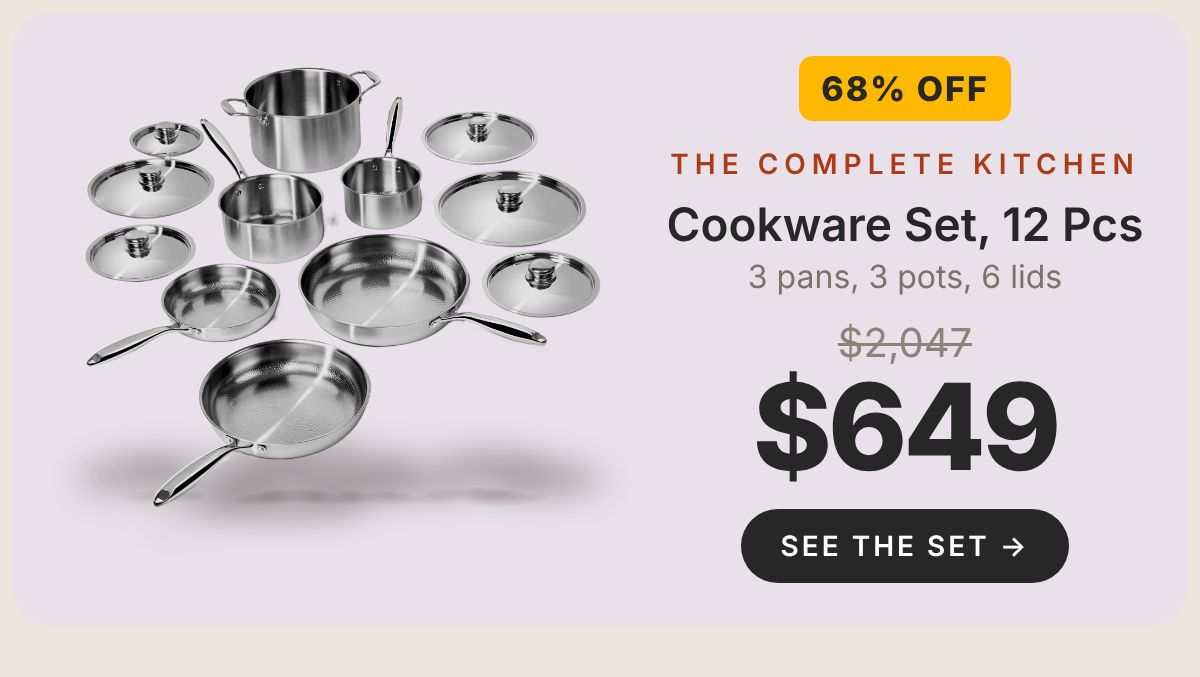
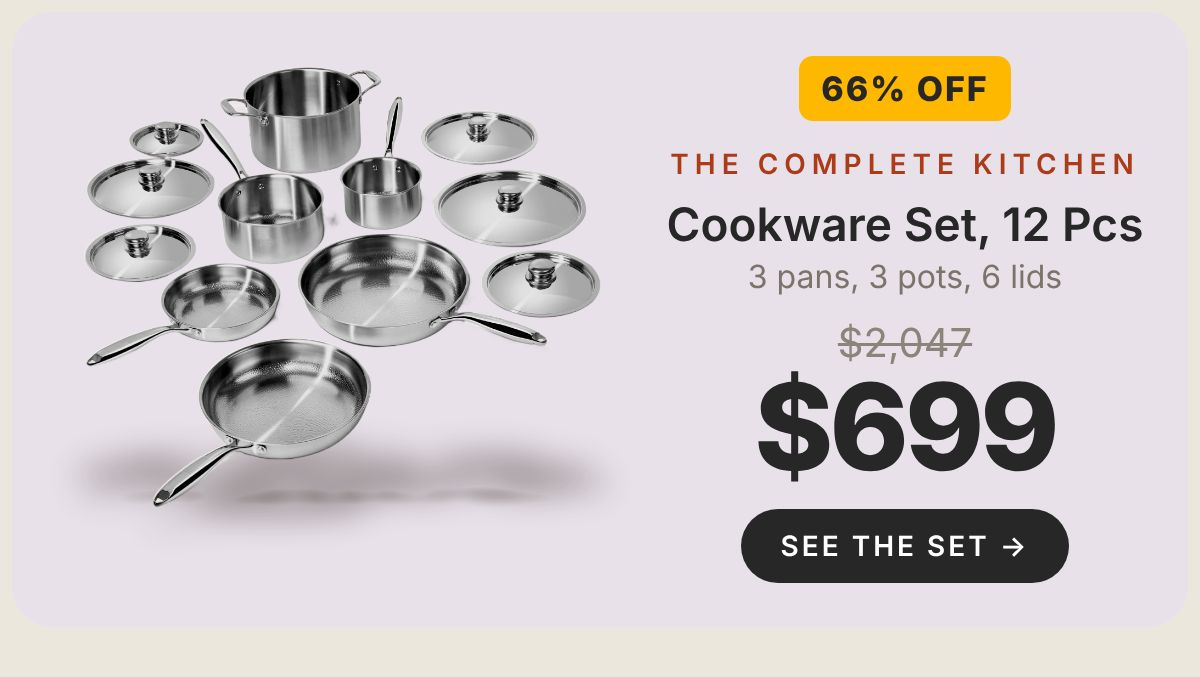
BF-W1 image B: 12-piece set at $699
Claude-Session: https://claude.ai/code/session_01HjCaDE95ohEXY6DPZTSH67

Changed region(s): [[0.6475, 0.5583, 0.8633, 0.7134], [0.7092, 0.1241, 0.74, 0.1551], [0.6475, 0.5894, 0.6783, 0.6204]]

diff --git a/klaviyo/templates/v3/bfcm/bf-w1-image-b/bf-w1-image-b-preview.html b/klaviyo/templates/v3/bfcm/bf-w1-image-b/bf-w1-image-b-preview.html
@@ -52,7 +52,7 @@
 <tr><td align="center" bgcolor="#ECE7DD" class="pad" style="background-color:#ECE7DD;padding:0 40px 30px 40px;text-align:center;"><table border="0" cellpadding="0" cellspacing="0" role="presentation" width="400" style="width:100%;max-width:400px;margin:0 auto;"><tr><td align="center" bgcolor="#272727" style="background-color:#272727;border-radius:40px;"><a href="https://siraatskitchen.com/products/2-pans-and-2-lids?utm_source=klaviyo&amp;utm_medium=email&amp;utm_campaign=bfcm-welcome-image-b&amp;utm_content=duo-cta" style="display:block;padding:19px 16px;font-family:Inter,Arial,Helvetica,sans-serif;font-size:15px;line-height:18px;font-weight:600;letter-spacing:1.2px;color:#FFFFFF;text-decoration:none;text-transform:uppercase;">Get 2 pans + 2 lids for $249 &rarr;</a></td></tr></table><div style="font-family:Inter,Arial,Helvetica,sans-serif;font-size:12px;line-height:18px;color:#727272;padding-top:10px;">Free shipping. 30-day returns. 100,000+ happy customers.</div></td></tr>
 <tr><td style="padding:0;font-size:0;line-height:0;"><a href="https://siraatskitchen.com/collections/cookware?utm_source=klaviyo&amp;utm_medium=email&amp;utm_campaign=bfcm-welcome-image-b&amp;utm_content=h-more" style="display:block;border:0;"><img src="/home/user/siraat-email-agent/klaviyo/templates/v3/bfcm/bf-w1-image-b/sections/bf-h-more.jpg" width="600" alt="The rest of the sale: pick your pan or your whole kitchen." style="display:block;width:100%;max-width:600px;height:auto;border:0;"></a></td></tr>
 <tr><td bgcolor="#ECE7DD" style="background-color:#ECE7DD;padding:0;"><table role="presentation" width="100%" cellpadding="0" cellspacing="0" border="0"><tr><td width="50%" valign="top" style="width:50%;padding:0;font-size:0;line-height:0;"><a href="https://siraatskitchen.com/products/original-siraat-100-pure-titanium-pan-with-hammered-pattern?utm_source=klaviyo&amp;utm_medium=email&amp;utm_campaign=bfcm-welcome-image-b&amp;utm_content=card-standard" style="display:block;"><img src="/home/user/siraat-email-agent/klaviyo/templates/v3/bfcm/bf-w1-image-b/sections/card-standard.jpg" width="300" alt="Pan Pro Standard, 11 inch, 28 cm. 69% off: $149, was $480." style="display:block;width:100%;max-width:300px;height:auto;border:0;"></a></td><td width="50%" valign="top" style="width:50%;padding:0;font-size:0;line-height:0;"><a href="https://siraatskitchen.com/products/titanium-hammered-pan-set-with-lids-6-pcs?utm_source=klaviyo&amp;utm_medium=email&amp;utm_campaign=bfcm-welcome-image-b&amp;utm_content=card-set6" style="display:block;"><img src="/home/user/siraat-email-agent/klaviyo/templates/v3/bfcm/bf-w1-image-b/sections/card-set6.jpg" width="300" alt="Pan Set, 6 pieces: 3 pans and 3 fitted lids. 70% off: $299, was $997." style="display:block;width:100%;max-width:300px;height:auto;border:0;"></a></td></tr></table></td></tr>
-<tr><td style="padding:0;font-size:0;line-height:0;"><a href="https://siraatskitchen.com/products/titanium-hammered-cookware-set?utm_source=klaviyo&amp;utm_medium=email&amp;utm_campaign=bfcm-welcome-image-b&amp;utm_content=card-set12" style="display:block;border:0;"><img src="/home/user/siraat-email-agent/klaviyo/templates/v3/bfcm/bf-w1-image-b/sections/card-set12-wide.jpg" width="600" alt="Cookware Set, 12 pieces: 3 pans, 3 pots and 6 lids, the complete kitchen. 68% off: $649, was $2,047." style="display:block;width:100%;max-width:600px;height:auto;border:0;"></a></td></tr>
+<tr><td style="padding:0;font-size:0;line-height:0;"><a href="https://siraatskitchen.com/products/titanium-hammered-cookware-set?utm_source=klaviyo&amp;utm_medium=email&amp;utm_campaign=bfcm-welcome-image-b&amp;utm_content=card-set12" style="display:block;border:0;"><img src="/home/user/siraat-email-agent/klaviyo/templates/v3/bfcm/bf-w1-image-b/sections/card-set12-wide.jpg" width="600" alt="Cookware Set, 12 pieces: 3 pans, 3 pots and 6 lids, the complete kitchen. 66% off: $699, was $2,047." style="display:block;width:100%;max-width:600px;height:auto;border:0;"></a></td></tr>
 <tr><td style="padding:0;font-size:0;line-height:0;"><a href="https://siraatskitchen.com/collections/cookware?utm_source=klaviyo&amp;utm_medium=email&amp;utm_campaign=bfcm-welcome-image-b&amp;utm_content=edge" style="display:block;border:0;"><img src="/home/user/siraat-email-agent/klaviyo/templates/v3/welcome/v6d-envelope-rich/sections/torn-ECE7DD-282828.jpg" width="600" alt="" style="display:block;width:100%;max-width:600px;height:auto;border:0;"></a></td></tr>
 <tr><td style="padding:0;font-size:0;line-height:0;"><a href="https://siraatskitchen.com/collections/cookware?utm_source=klaviyo&amp;utm_medium=email&amp;utm_campaign=bfcm-welcome-image-b&amp;utm_content=reasons" style="display:block;border:0;"><img src="/home/user/siraat-email-agent/klaviyo/templates/v3/bfcm/bf-w1-image-b/sections/bf-reasons.jpg" width="600" alt="Why now, five honest reasons, no countdown. 1: Black Friday prices, up to 70% off pans and sets. 2: No code needed, the sale price is already on the product page. 3: 5 free gifts in the box with every order. 4: 30-day returns, unused within 30 days of delivery, full refund. 5: 75-year warranty against defects; a pure titanium cooking surface with no coatings, so nothing to wear off." style="display:block;width:100%;max-width:600px;height:auto;border:0;"></a></td></tr>
 <tr><td style="padding:0;font-size:0;line-height:0;"><a href="https://siraatskitchen.com/collections/cookware?utm_source=klaviyo&amp;utm_medium=email&amp;utm_campaign=bfcm-welcome-image-b&amp;utm_content=edge" style="display:block;border:0;"><img src="/home/user/siraat-email-agent/klaviyo/templates/v3/welcome/v6d-envelope-rich/sections/torn-282828-ECE7DD.jpg" width="600" alt="" style="display:block;width:100%;max-width:600px;height:auto;border:0;"></a></td></tr>

diff --git a/klaviyo/templates/v3/bfcm/bf-w1-image-b/bf-w1-image-b.html b/klaviyo/templates/v3/bfcm/bf-w1-image-b/bf-w1-image-b.html
@@ -52,7 +52,7 @@
 <tr><td align="center" bgcolor="#ECE7DD" class="pad" style="background-color:#ECE7DD;padding:0 40px 30px 40px;text-align:center;"><table border="0" cellpadding="0" cellspacing="0" role="presentation" width="400" style="width:100%;max-width:400px;margin:0 auto;"><tr><td align="center" bgcolor="#272727" style="background-color:#272727;border-radius:40px;"><a href="https://siraatskitchen.com/products/2-pans-and-2-lids?utm_source=klaviyo&amp;utm_medium=email&amp;utm_campaign=bfcm-welcome-image-b&amp;utm_content=duo-cta" style="display:block;padding:19px 16px;font-family:Inter,Arial,Helvetica,sans-serif;font-size:15px;line-height:18px;font-weight:600;letter-spacing:1.2px;color:#FFFFFF;text-decoration:none;text-transform:uppercase;">Get 2 pans + 2 lids for $249 &rarr;</a></td></tr></table><div style="font-family:Inter,Arial,Helvetica,sans-serif;font-size:12px;line-height:18px;color:#727272;padding-top:10px;">Free shipping. 30-day returns. 100,000+ happy customers.</div></td></tr>
 <tr><td style="padding:0;font-size:0;line-height:0;"><a href="https://siraatskitchen.com/collections/cookware?utm_source=klaviyo&amp;utm_medium=email&amp;utm_campaign=bfcm-welcome-image-b&amp;utm_content=h-more" style="display:block;border:0;"><img src="https://cdn.klaviyomail.com/company/TdtTzz/images/fd54f5f5-0882-48c8-af8b-ca6cde923fd2.jpeg" width="600" alt="The rest of the sale: pick your pan or your whole kitchen." style="display:block;width:100%;max-width:600px;height:auto;border:0;"></a></td></tr>
 <tr><td bgcolor="#ECE7DD" style="background-color:#ECE7DD;padding:0;"><table role="presentation" width="100%" cellpadding="0" cellspacing="0" border="0"><tr><td width="50%" valign="top" style="width:50%;padding:0;font-size:0;line-height:0;"><a href="https://siraatskitchen.com/products/original-siraat-100-pure-titanium-pan-with-hammered-pattern?utm_source=klaviyo&amp;utm_medium=email&amp;utm_campaign=bfcm-welcome-image-b&amp;utm_content=card-standard" style="display:block;"><img src="https://cdn.klaviyomail.com/company/TdtTzz/images/3479b59d-69fd-42f9-9a6c-3d76f87a9b52.jpeg" width="300" alt="Pan Pro Standard, 11 inch, 28 cm. 69% off: $149, was $480." style="display:block;width:100%;max-width:300px;height:auto;border:0;"></a></td><td width="50%" valign="top" style="width:50%;padding:0;font-size:0;line-height:0;"><a href="https://siraatskitchen.com/products/titanium-hammered-pan-set-with-lids-6-pcs?utm_source=klaviyo&amp;utm_medium=email&amp;utm_campaign=bfcm-welcome-image-b&amp;utm_content=card-set6" style="display:block;"><img src="https://cdn.klaviyomail.com/company/TdtTzz/images/32020e81-474b-47bd-8d10-702562965735.jpeg" width="300" alt="Pan Set, 6 pieces: 3 pans and 3 fitted lids. 70% off: $299, was $997." style="display:block;width:100%;max-width:300px;height:auto;border:0;"></a></td></tr></table></td></tr>
-<tr><td style="padding:0;font-size:0;line-height:0;"><a href="https://siraatskitchen.com/products/titanium-hammered-cookware-set?utm_source=klaviyo&amp;utm_medium=email&amp;utm_campaign=bfcm-welcome-image-b&amp;utm_content=card-set12" style="display:block;border:0;"><img src="https://cdn.klaviyomail.com/company/TdtTzz/images/3491f70f-6fb5-47f9-ad37-81e86305bbe5.jpeg" width="600" alt="Cookware Set, 12 pieces: 3 pans, 3 pots and 6 lids, the complete kitchen. 68% off: $649, was $2,047." style="display:block;width:100%;max-width:600px;height:auto;border:0;"></a></td></tr>
+<tr><td style="padding:0;font-size:0;line-height:0;"><a href="https://siraatskitchen.com/products/titanium-hammered-cookware-set?utm_source=klaviyo&amp;utm_medium=email&amp;utm_campaign=bfcm-welcome-image-b&amp;utm_content=card-set12" style="display:block;border:0;"><img src="https://cdn.klaviyomail.com/company/TdtTzz/images/0afda6eb-512d-428b-b570-6f387fea7f64.jpeg" width="600" alt="Cookware Set, 12 pieces: 3 pans, 3 pots and 6 lids, the complete kitchen. 66% off: $699, was $2,047." style="display:block;width:100%;max-width:600px;height:auto;border:0;"></a></td></tr>
 <tr><td style="padding:0;font-size:0;line-height:0;"><a href="https://siraatskitchen.com/collections/cookware?utm_source=klaviyo&amp;utm_medium=email&amp;utm_campaign=bfcm-welcome-image-b&amp;utm_content=edge" style="display:block;border:0;"><img src="https://cdn.klaviyomail.com/company/TdtTzz/images/7b52008a-7e4b-4dcb-a7b4-0e907b8889ef.jpeg" width="600" alt="" style="display:block;width:100%;max-width:600px;height:auto;border:0;"></a></td></tr>
 <tr><td style="padding:0;font-size:0;line-height:0;"><a href="https://siraatskitchen.com/collections/cookware?utm_source=klaviyo&amp;utm_medium=email&amp;utm_campaign=bfcm-welcome-image-b&amp;utm_content=reasons" style="display:block;border:0;"><img src="https://cdn.klaviyomail.com/company/TdtTzz/images/ce856f71-1804-4168-9b6d-9ee187ad779d.jpeg" width="600" alt="Why now, five honest reasons, no countdown. 1: Black Friday prices, up to 70% off pans and sets. 2: No code needed, the sale price is already on the product page. 3: 5 free gifts in the box with every order. 4: 30-day returns, unused within 30 days of delivery, full refund. 5: 75-year warranty against defects; a pure titanium cooking surface with no coatings, so nothing to wear off." style="display:block;width:100%;max-width:600px;height:auto;border:0;"></a></td></tr>
 <tr><td style="padding:0;font-size:0;line-height:0;"><a href="https://siraatskitchen.com/collections/cookware?utm_source=klaviyo&amp;utm_medium=email&amp;utm_campaign=bfcm-welcome-image-b&amp;utm_content=edge" style="display:block;border:0;"><img src="https://cdn.klaviyomail.com/company/TdtTzz/images/4a1f8d49-65b5-4359-91ea-a0891a74508c.jpeg" width="600" alt="" style="display:block;width:100%;max-width:600px;height:auto;border:0;"></a></td></tr>

diff --git a/klaviyo/templates/v3/bfcm/bf-w1-image-b/sections/src/card-set12-wide.html b/klaviyo/templates/v3/bfcm/bf-w1-image-b/sections/src/card-set12-wide.html
@@ -9,4 +9,4 @@
 .num{font-weight:800;letter-spacing:-2px}
 .tag{display:inline-block;background:#FFB800;color:#272727;font-weight:800;letter-spacing:2px;border-radius:14px;text-transform:uppercase}
 .was{text-decoration:line-through;text-decoration-thickness:3px;color:#8A847A}
-</style></head><body><div id="s" style="background:#ECE7DD;padding:12px 12px 50px"><div style="position:relative;background:#E8E1EA;border-radius:40px;display:flex;align-items:center;padding:44px 40px 44px 30px;gap:20px"><div style="flex:1.15;text-align:center"><img src="file:///home/user/siraat-email-agent/klaviyo/templates/v3/bfcm/bf-w1-image-b/gen/sh/cut-set12_-3.png" style="width:600px;"></div><div style="flex:1;text-align:center"><div class="tag" style="font-size:34px;padding:12px 22px;margin-bottom:26px">68% OFF</div><div class="eb" style="color:#AC3B19;font-size:28px">The complete kitchen</div><div style="font-weight:600;font-size:46px;line-height:54px;color:#272727;margin-top:16px">Cookware Set, 12 Pcs</div><div style="font-size:32px;color:#7A746B;margin-top:6px">3 pans, 3 pots, 6 lids</div><div class="was" style="font-size:40px;margin-top:22px">$2,047</div><div class="num" style="font-size:120px;line-height:120px;color:#272727;letter-spacing:-4px">$649</div><div class="btn" style="margin-top:22px;background:#272727;color:#FFFFFF;font-size:28px;padding:20px 40px">See the set &rarr;</div></div></div></div></body></html>
+</style></head><body><div id="s" style="background:#ECE7DD;padding:12px 12px 50px"><div style="position:relative;background:#E8E1EA;border-radius:40px;display:flex;align-items:center;padding:44px 40px 44px 30px;gap:20px"><div style="flex:1.15;text-align:center"><img src="file:///home/user/siraat-email-agent/klaviyo/templates/v3/bfcm/bf-w1-image-b/gen/sh/cut-set12_-3.png" style="width:600px;"></div><div style="flex:1;text-align:center"><div class="tag" style="font-size:34px;padding:12px 22px;margin-bottom:26px">66% OFF</div><div class="eb" style="color:#AC3B19;font-size:28px">The complete kitchen</div><div style="font-weight:600;font-size:46px;line-height:54px;color:#272727;margin-top:16px">Cookware Set, 12 Pcs</div><div style="font-size:32px;color:#7A746B;margin-top:6px">3 pans, 3 pots, 6 lids</div><div class="was" style="font-size:40px;margin-top:22px">$2,047</div><div class="num" style="font-size:120px;line-height:120px;color:#272727;letter-spacing:-4px">$699</div><div class="btn" style="margin-top:22px;background:#272727;color:#FFFFFF;font-size:28px;padding:20px 40px">See the set &rarr;</div></div></div></div></body></html>

diff --git a/klaviyo/templates/v3/bfcm/bf-w1-image-b/_tools/build.py b/klaviyo/templates/v3/bfcm/bf-w1-image-b/_tools/build.py
@@ -88,7 +88,7 @@ e.cta(SAND, 'Get 2 pans + 2 lids for $249', UP('duo-cta', 'duo'), sub=FR, pad='0
 e.img('bf-h-more.jpg', 'The rest of the sale: pick your pan or your whole kitchen.', U('h-more'))
 e.pair([('card-standard.jpg', 'Pan Pro Standard, 11 inch, 28 cm. 69% off: $149, was $480.', UP('card-standard', 'standard')),
         ('card-set6.jpg', 'Pan Set, 6 pieces: 3 pans and 3 fitted lids. 70% off: $299, was $997.', UP('card-set6', 'set6'))])
-e.img('card-set12-wide.jpg', 'Cookware Set, 12 pieces: 3 pans, 3 pots and 6 lids, the complete kitchen. 68% off: $649, was $2,047.', UP('card-set12', 'set12'))
+e.img('card-set12-wide.jpg', 'Cookware Set, 12 pieces: 3 pans, 3 pots and 6 lids, the complete kitchen. 66% off: $699, was $2,047.', UP('card-set12', 'set12'))
 e.torn(SAND, DARK)
 e.img('bf-reasons.jpg', 'Why now, five honest reasons, no countdown. 1: Black Friday prices, up to 70% off pans and sets. 2: No code needed, the sale price is already on the product page. 3: 5 free gifts in the box with every order. 4: 30-day returns, unused within 30 days of delivery, full refund. 5: 75-year warranty against defects; a pure titanium cooking surface with no coatings, so nothing to wear off.', U('reasons'))
 e.torn(DARK, SAND)

diff --git a/klaviyo/templates/v3/bfcm/bf-w1-image-b/_tools/sections.py b/klaviyo/templates/v3/bfcm/bf-w1-image-b/_tools/sections.py
@@ -69,7 +69,7 @@ sec('bf-h-more', f'background:{SAND};padding:56px 70px 20px', head('The rest of 
 # ---------- productkaarten (zelfde stramien als v6d card(), maar BF-prijs zonder code)
 PR = {'standard': ('Pan Pro Standard', '11&Prime; &middot; 28 cm', 480, 149, '#F3E3D3', 'cut-standard.png', -12),
       'set6': ('Pan Set, 6 Pcs', '3 pans + 3 fitted lids', 997, 299, '#E4E7DF', 'cut-set6.png', -4),
-      'set12': ('Cookware Set, 12 Pcs', '3 pans, 3 pots, 6 lids', 2047, 649, '#E8E1EA', 'cut-set12.png', -3)}
+      'set12': ('Cookware Set, 12 Pcs', '3 pans, 3 pots, 6 lids', 2047, 699, '#E8E1EA', 'cut-set12.png', -3)}
 pct = lambda was, now: round(100 * (1 - now / was))  # 68,96 -> 69; 62,5 -> 62
 def card(k, cta):
     n, sz, was, now, tint, cut, rot = PR[k]

diff --git a/LOG.md b/LOG.md
@@ -561,3 +561,4 @@ Nieuwste bovenaan. Elke regel: datum, wat er gedaan is, wat het opleverde of wat
 - 2026-11-18 ~08:00 UTC: FOUT hersteld in welcome A/B: B-route (v6d) miste de check op BFCM Welcome (Rn556d), waardoor 154 nieuwe aanmelders tussen 01:05 en 08:00 UTC naast BF-W1 ook v6d E1 kregen (1 order, $134.10). Fix (akkoord Floris): extra filter op alle 5 v6d-mails "geen Received Email uit flow Rn556d in de laatste 2 weken". Gevolg: tijdens BFCM komt vrijwel niemand meer in B (A stuurt ook bijna niets, want BF-W1 vangt de aanmelders). Les: bij hergebruik van een flowroute altijd de exit-checks van de andere route vergelijken.
 - 2026-11-18: BF-W1 image B (beeldgedreven B-variant van BFCM Welcome BF-W1, A = XXg4sn) gebouwd in klaviyo/templates/v3/bfcm/bf-w1-image-b/ met v6d-aanpak (armen-hero, duo-uitsnede met grondschaduw, getinte kaarten, gescheurde randen, gifts flat-lay en reviewkaarten hergebruikt). Zelfde aanbod en prijzen als A, geen nep-urgentie (geen midnight, geen 92% claimed): vijf echte redenen. Links per product, algemeen naar /collections/cookware, UTM bfcm-welcome-image-b, geen discount-redirect. 7 beelden naar Klaviyo, CODE-template YuNuFD "BF-W1 · image B · TEST". ~840 KB, mobiel 4.108 px (boven richtlijn 3.600), 0 kapotte beelden, landers 200. Niet in flow Rn556d gezet, niets verstuurd, Figma overgeslagen.
 - 2026-11-18: Figma-rij 348:106 (Row 1i) met BF-W1 image B (desktop + mobiel) toegevoegd onder v6d.
+- 2026-11-18: BF-W1 image B: 12-Pcs set op $699 (66% off van $2,047) op verzoek Floris (A/B-uitgangspunt duurder). Template YuNuFD en Figma 348:106 bijgewerkt. A (XXg4sn) en v6d noemen nog $649.
